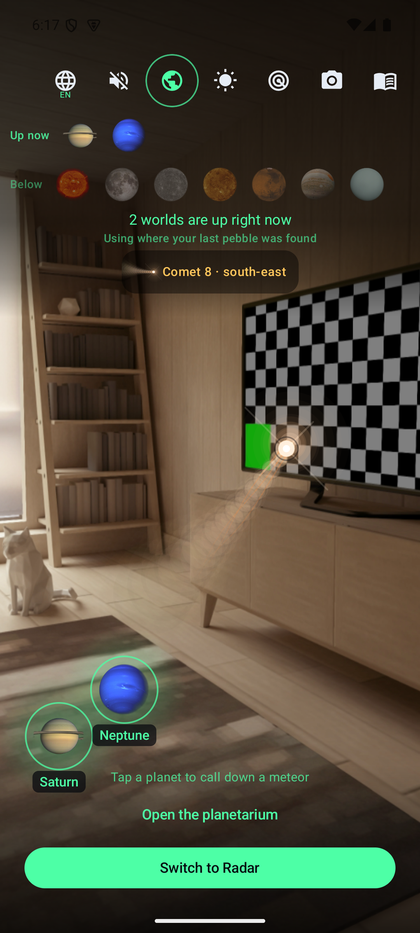
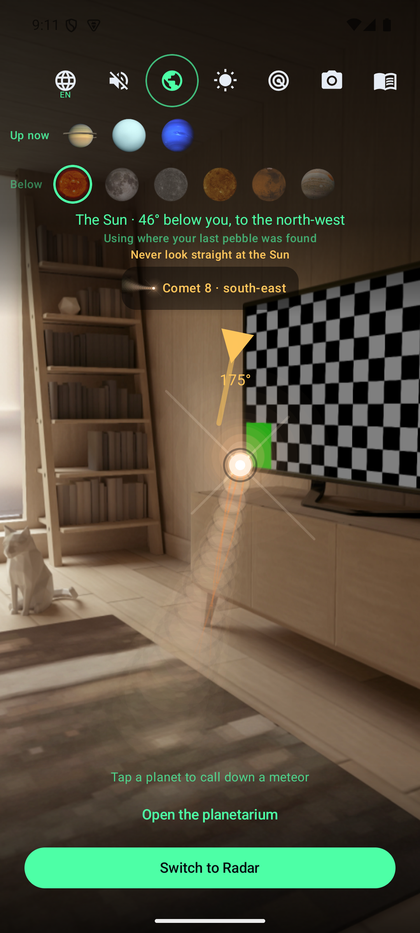
A bigger comet, and a quieter name for the control
The head was drawn small enough that nobody aimed at the generous part
of the target - they aimed at the bright dot and missed by a finger.
It is half as big again now, which is also what "giant" was supposed to
mean: the coma is about a fifth of the screen across and the tail runs
off the edge, the way a great comet does. The reach went up with it.

And "Add a comet" announced the trick. "Comet detection" is the fiction
the rest of the app is written in - the same word the detection mode
already uses, in all three languages.

Claude-Session: https://claude.ai/code/session_01MKtmmxPPWXys8KKnXqGUdj

diff --git a/app/src/main/kotlin/com/pebbledetective/ui/sky/SkyScreen.kt b/app/src/main/kotlin/com/pebbledetective/ui/sky/SkyScreen.kt
@@ -792,11 +792,24 @@ private fun SkyCameraBackdrop(enabled: Boolean) {
     AndroidView(factory = { previewView }, modifier = Modifier.fillMaxSize())
 }
 
-/** Half as wide again as a planet: a comet is meant to be easy to hit. */
-private const val COMET_TAP_SLOP_PX = 110f
+/**
+ * Nearly three times a planet's: a comet is meant to be easy to hit.
+ *
+ * The reach was always generous, but the head was drawn small enough
+ * that nobody aimed at the generous part - they aimed at the bright dot
+ * and missed by a finger's width. Drawing it bigger is most of the fix;
+ * this is the rest.
+ */
+private const val COMET_TAP_SLOP_PX = 170f
 
-/** How big the head is drawn, as a fraction of the screen's short side. */
-private const val COMET_HEAD = 0.068f
+/**
+ * How big the head is drawn, as a fraction of the screen's short side.
+ *
+ * Giant, which is the point of them. At this size the coma alone is
+ * about a fifth of the screen across and the tail runs off the edge,
+ * which is what a great comet does.
+ */
+private const val COMET_HEAD = 0.095f
 
 private val LABEL_STYLE = TextStyle(
     fontSize = 13.sp,

diff --git a/README.md b/README.md
@@ -123,8 +123,8 @@ The real sky is not always helpful. On a given evening two planets may be
 up and both behind a building, and tapping one drops the meteor towards a
 main road rather than the park.
 
-**Add a comet** does something about that, and does nothing at all until
-it is tapped. The first tap hangs one due south, high enough to clear the
+**Comet detection** does something about that, and does nothing at all
+until it is tapped. The first tap hangs one due south, high enough to clear the
 roofs; tap again and it moves to the south-west, then west, and on round
 the compass, one at a time, eight in all. Walk it round until it is over
 somewhere worth walking to and tap the comet itself: the meteor falls that
